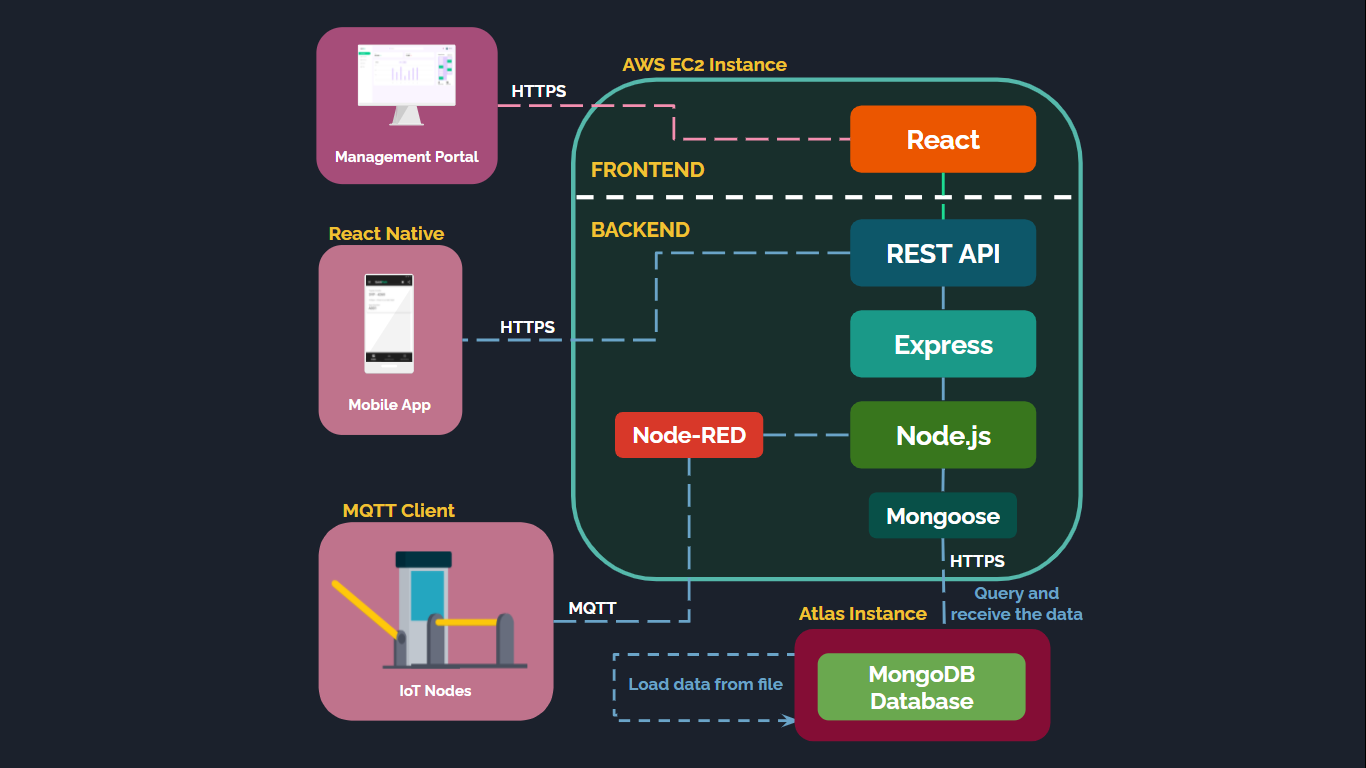
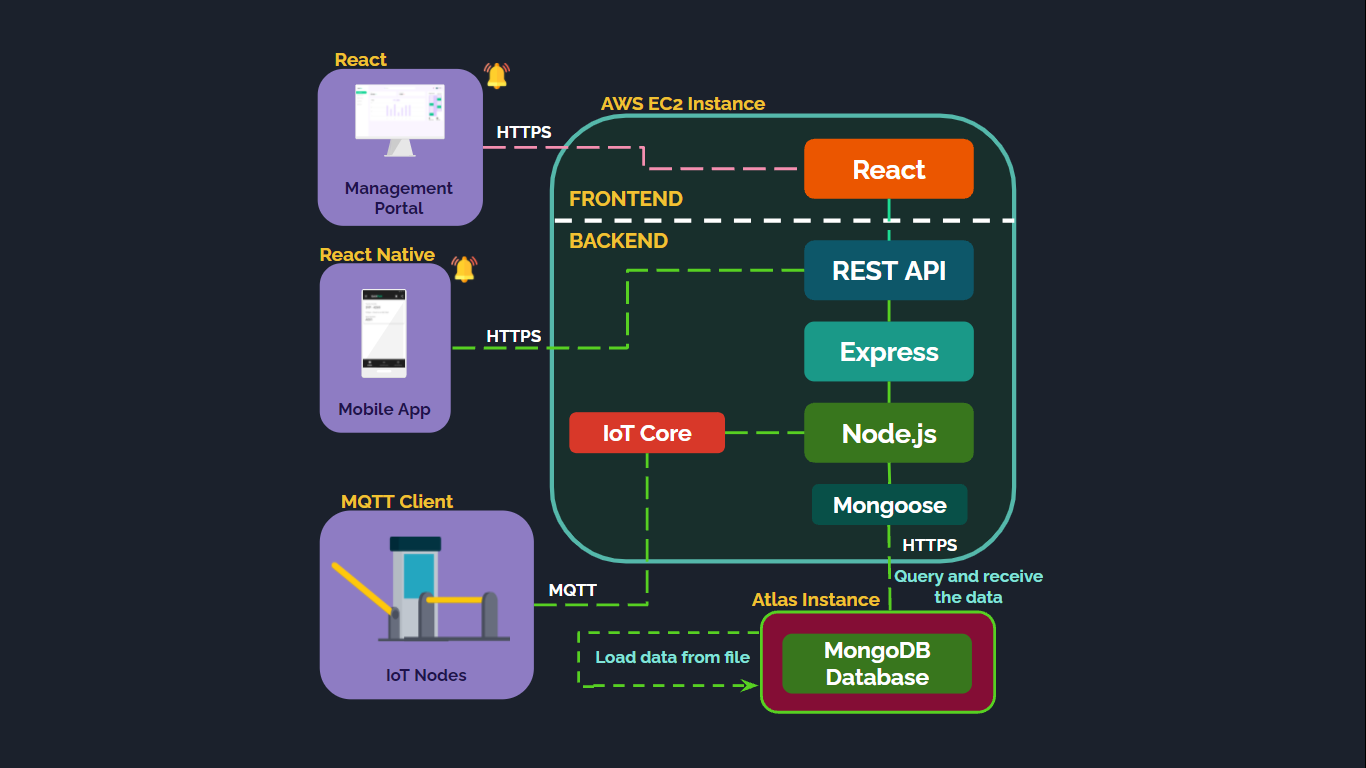
Updated the Design and Progress pages in the website

Changed region(s): [[0.2152, 0.0312, 0.7994, 0.9688]]

diff --git a/docs/progress.html b/docs/progress.html
@@ -85,10 +85,105 @@
 				<div class="col-md-12">
 					<div class="timeline-centered ftco-animate">
 
-					<article class="timeline-entry left-aligned ftco-animate">
+					<article class="timeline-entry ftco-animate">
 					
 						<div class="timeline-entry-inner">
-							<time class="timeline-time" datetime="2014-01-10T03:45"><span class="timeline-current"><span>2nd Sept 2021</span> <span></span></time>
+							<time class="timeline-time" datetime="2014-01-10T03:45"><span class="timeline-current"><span>25th Oct 2021</span> <span></span></time>
+							
+							<div class="timeline-icon bg-warning">
+								<i class="icon-flag"></i>
+							</div>
+							
+							<div class="timeline-label">
+								<h2><b><a>Milestone 3</a></b></h2>
+								
+								<blockquote>Progress Review for the project was done.</blockquote>
+								
+							</div>
+						</div>
+						
+					</article>
+
+					<article class="timeline-entry left-aligned ftco-animate">
+						
+						<div class="timeline-entry-inner">
+							<time class="timeline-time" datetime="2014-01-10T03:45"><span>17th Oct 2021</span> <span></span></time>
+							
+							<div class="timeline-icon bg-primary">
+								<i class="icon-bug"></i>
+							</div>
+							
+							<div class="timeline-label">
+								<h2><b><a>Testing</a></b></h2>
+								
+								<blockquote>The testing plan was followed and the system was throroughly tested.</blockquote>
+								
+							</div>
+						</div>
+						
+					</article>
+
+					<article class="timeline-entry ftco-animate">
+		
+						<div class="timeline-entry-inner">
+							<time class="timeline-time" datetime="2014-01-10T03:45"><span>02nd Oct 2021</span> <span></span></time>
+			
+								<div class="timeline-icon bg-danger">
+									<i class="icon-link"></i>
+								</div>
+			
+								<div class="timeline-label">
+									<h2><b><a>Integration</a></b></h2>
+									
+									<blockquote>The backend components were integrated with the frontend components.</blockquote>
+
+								</div>
+						</div>
+		
+					</article>
+
+					<article class="timeline-entry left-aligned ftco-animate">
+						
+						<div class="timeline-entry-inner">
+							<time class="timeline-time" datetime="2014-01-10T03:45"><span>26th Sept 2021</span> <span></span></time>
+							
+							<div class="timeline-icon bg-success">
+								<i class="icon-cloud"></i>
+							</div>
+							
+							<div class="timeline-label">
+								<h2><b><a>Cloud deployment</a></b></h2>
+								
+								<blockquote>The backend was deployed into AWS cloud environment.</blockquote>
+								
+							</div>
+						</div>
+						
+					</article>
+
+					<article class="timeline-entry ftco-animate">
+		
+						<div class="timeline-entry-inner">
+							<time class="timeline-time" datetime="2014-01-10T03:45"><span>19th Sept 2021</span> <span></span></time>
+			
+								<div class="timeline-icon bg-primary">
+									<i class="icon-mobile"></i>
+								</div>
+			
+								<div class="timeline-label">
+									<h2><b><a>App Development</a></b></h2>
+									
+									<blockquote>The mobile app and the management portal were completed.</blockquote>
+
+								</div>
+						</div>
+		
+					</article>
+
+					<article class="timeline-entry left-aligned ftco-animate">
+						
+						<div class="timeline-entry-inner">
+							<time class="timeline-time" datetime="2014-01-10T03:45"><span>2nd Sept 2021</span> <span></span></time>
 							
 							<div class="timeline-icon bg-warning">
 								<i class="icon-flag"></i>
@@ -98,7 +193,6 @@
 								<h2><b><a>Milestone 2</a></b></h2>
 								
 								<blockquote>Progress Review for the project was done. The slides for the presentation can be found below.</blockquote>
-								
 								<a class="btn btn-dark" href="https://docs.google.com/presentation/d/1jBVtpJiEuohVLip2vjnuFMdSfajlz8R9I4VSShYc7b4/edit?usp=sharing" target="_blank">Progress Review Presentation</a>
 								
 							</div>
@@ -111,7 +205,7 @@
 						<div class="timeline-entry-inner">
 							<time class="timeline-time" datetime="2014-01-10T03:45"><span>15th Aug 2021</span> <span></span></time>
 			
-								<div class="timeline-icon bg-danger">
+								<div class="timeline-icon bg-success">
 									<i class="icon-mobile"></i>
 								</div>
 			
@@ -173,7 +267,7 @@
 						<div class="timeline-entry-inner">
 							<time class="timeline-time" datetime="2014-01-10T03:45"><span>3rd Aug 2021</span> <span></span></time>
 							
-							<div class="timeline-icon bg-primary">
+							<div class="timeline-icon bg-success">
 								<i class="icon-car"></i>
 							</div>
 							
@@ -194,7 +288,7 @@
 						<div class="timeline-entry-inner">
 							<time class="timeline-time" datetime="2014-01-10T03:45"><span>1st Aug 2021</span><span></span></time>
 			
-								<div class="timeline-icon bg-success">
+								<div class="timeline-icon bg-primary">
 									<i class="icon-cube"></i>
 								</div>
 			

diff --git a/docs/index.html b/docs/index.html
@@ -175,17 +175,17 @@
         </div>
 		
 		<div class="progress mb-1" style="height: 5px;" >
-          <div class="progress-bar" role="progressbar" style="width: 70%" aria-valuenow="70" aria-valuemin="0" aria-valuemax="100"></div>
+          <div class="progress-bar " role="progressbar" style="width: 95%" aria-valuenow="90" aria-valuemin="0" aria-valuemax="100"></div>
 		</div>
 		
         <div class="progress d-flex" style="height: 100px;" >
-          <div class="progress-bar" role="progressbar" style="width: 20%" aria-valuenow="20" aria-valuemin="0" aria-valuemax="100">Week 7-8:<br>Backend Design</div>
-		  <div class="progress-bar bg-success" role="progressbar" style="width: 20%" aria-valuenow="20" aria-valuemin="0" aria-valuemax="100">Week 9-10:<br>Hardware design</div>
-		  <div class="progress-bar bg-info" role="progressbar" style="width: 14%" aria-valuenow="20" aria-valuemin="0" aria-valuemax="100">Week 11:<br>UI and algorithm<br> designs</div>
-      <div class="progress-bar" role="progressbar" style="width: 14%" aria-valuenow="14" aria-valuemin="0" aria-valuemax="100">Week 12:<br>App development</div>
-		  <div class="progress-bar bg-success" role="progressbar" style="width: 13%" aria-valuenow="13" aria-valuemin="0" aria-valuemax="100">Week 13:<br>Cloud deployment</div>
-		  <div class="progress-bar bg-info" role="progressbar" style="width: 13%" aria-valuenow="13" aria-valuemin="0" aria-valuemax="100">Week 14:<br>Integration</div>
-		  <div class="progress-bar" role="progressbar" style="width: 13%" aria-valuenow="13" aria-valuemin="0" aria-valuemax="100">Week 15:<br>Testing</div>
+          <div class="progress-bar" role="progressbar" style="width: 15%" aria-valuenow="20" aria-valuemin="0" aria-valuemax="100">Week 7-8:<br>Backend Design</div>
+		  <div class="progress-bar bg-success" role="progressbar" style="width: 15%" aria-valuenow="20" aria-valuemin="0" aria-valuemax="100">Week 9-10:<br>Hardware design</div>
+		  <div class="progress-bar bg-info" role="progressbar" style="width: 15%" aria-valuenow="20" aria-valuemin="0" aria-valuemax="100">Week 11:<br>UI and algorithm<br> designs</div>
+      <div class="progress-bar" role="progressbar" style="width: 30%" aria-valuenow="14" aria-valuemin="0" aria-valuemax="100">Week 12-14:<br>App development</div>
+		  <div class="progress-bar bg-success" role="progressbar" style="width: 13%" aria-valuenow="13" aria-valuemin="0" aria-valuemax="100">Week 15:<br>Cloud deployment</div>
+		  <div class="progress-bar bg-info" role="progressbar" style="width: 13%" aria-valuenow="13" aria-valuemin="0" aria-valuemax="100">Week 16:<br>Integration</div>
+		  <div class="progress-bar" role="progressbar" style="width: 13%" aria-valuenow="13" aria-valuemin="0" aria-valuemax="100">Week 17-18:<br>Testing</div>
 		</div>
 		
     

diff --git a/docs/3D_model.html b/docs/3D_model.html
@@ -69,7 +69,7 @@
 		<div class="container">
 			<div class="ftco-animate heading-section heading-section-white pl-md-5">
 					<p>Development of QuickPark is still in progress. Under the current project timeline,
-					the 3D models of our product will be available by the end of week 14.
+					the 3D models of our product will be available soon.
 					Visit the Progress page for further details on the current status of the project.</p>
 			</div>
 		</div>
